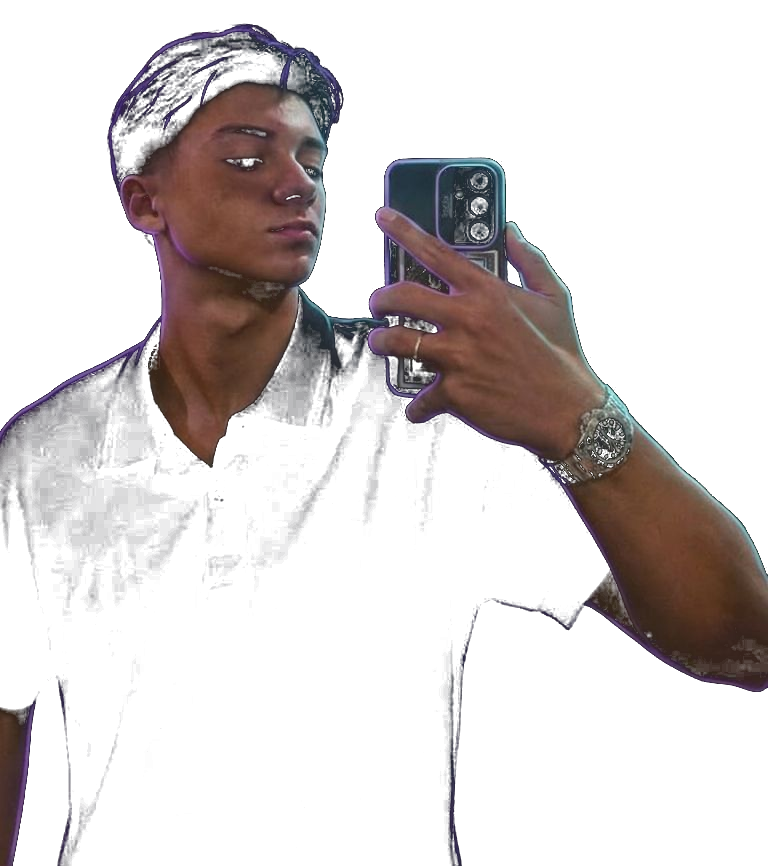
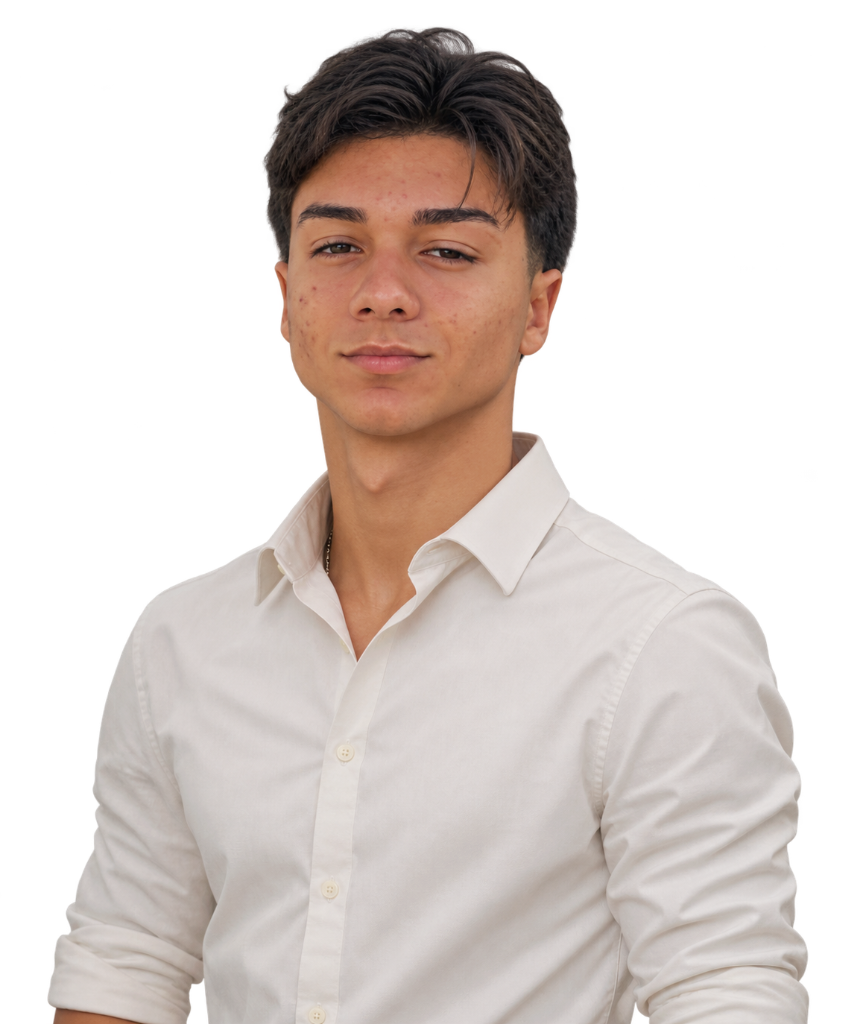
feat: set white shirt photo in hero portal and add office portrait to about section

diff --git a/index.html b/index.html
@@ -717,13 +717,30 @@ body.modal-open{overflow:hidden}
 
       <!-- QUOTE & 4 ACTS PROCESS -->
       <div class="st-fade-up st-delay-2" style="display:grid;gap:2rem">
-        <figure class="st-ring-card" style="margin:0">
-          <blockquote class="st-quote">"O melhor design é aquele que o seu cliente entende em 3 segundos e sente segurança para comprar."</blockquote>
-          <figcaption style="margin-top:1.5rem">
-            <p class="st-label">Guilherme Sanz</p>
-            <p class="st-small">Product Designer &amp; Dev</p>
-          </figcaption>
-        </figure>
+        <!-- HUMANIZED FOUNDER SHOWCASE CARD -->
+        <div class="st-glass pf-about__portrait-card st-fade-up st-delay-1" style="position:relative;border-radius:var(--st-r-2xl);overflow:hidden;border:1px solid rgba(255,255,255,.12);background:rgba(18,18,22,.65);box-shadow:0 20px 50px -10px rgba(0,0,0,.8)">
+          <div style="position:relative;height:340px;overflow:hidden">
+            <img src="guilherme-photo.jpg" alt="Guilherme Sanz no escritório" style="width:100%;height:100%;object-fit:cover;object-position:center 65%;filter:contrast(1.02) brightness(.97)">
+            <div style="position:absolute;inset:0;background:linear-gradient(to top, rgba(18,18,22,1) 4%, rgba(18,18,22,.5) 28%, rgba(18,18,22,0) 65%)"></div>
+            <div style="position:absolute;top:1rem;right:1rem;z-index:2">
+              <span class="st-badge" style="font-size:10px;padding:.2rem .65rem;background:rgba(16,185,129,.15);border-color:rgba(16,185,129,.4);color:#10b981;backdrop-filter:blur(10px)">
+                <i class="st-badge__dot" style="background:#10b981"></i> DISPONÍVEL
+              </span>
+            </div>
+            <div style="position:absolute;bottom:1.25rem;left:1.5rem;right:1.5rem;z-index:2;display:flex;justify-content:space-between;align-items:flex-end">
+              <div>
+                <span class="st-eyebrow" style="color:var(--st-brand-300);font-size:.7rem;letter-spacing:.08em">PRODUCT DESIGNER &amp; DEVELOPER</span>
+                <h3 style="color:#fff;margin:.25rem 0 0;font-size:1.4rem;font-weight:700;letter-spacing:-.02em">Guilherme Sanz</h3>
+              </div>
+              <span style="font-family:var(--st-font-ui);font-size:11px;color:rgba(255,255,255,.7);background:rgba(255,255,255,.08);padding:.25rem .6rem;border-radius:var(--st-r-md);border:1px solid rgba(255,255,255,.12);backdrop-filter:blur(8px)">GSC Tech</span>
+            </div>
+          </div>
+          <div style="padding:1.5rem 1.75rem 1.75rem">
+            <blockquote class="st-quote" style="font-size:1.05rem;line-height:1.45;color:var(--st-text-soft);margin:0">
+              "O melhor design é aquele que o seu cliente entende em 3 segundos e sente segurança para comprar."
+            </blockquote>
+          </div>
+        </div>
 
         <div class="st-glass st-glass--hover" style="padding:2rem">
           <h3 class="st-h4" style="margin-bottom:1.25rem">Como Funciona o Nosso Projeto (4 Etapas)</h3>
